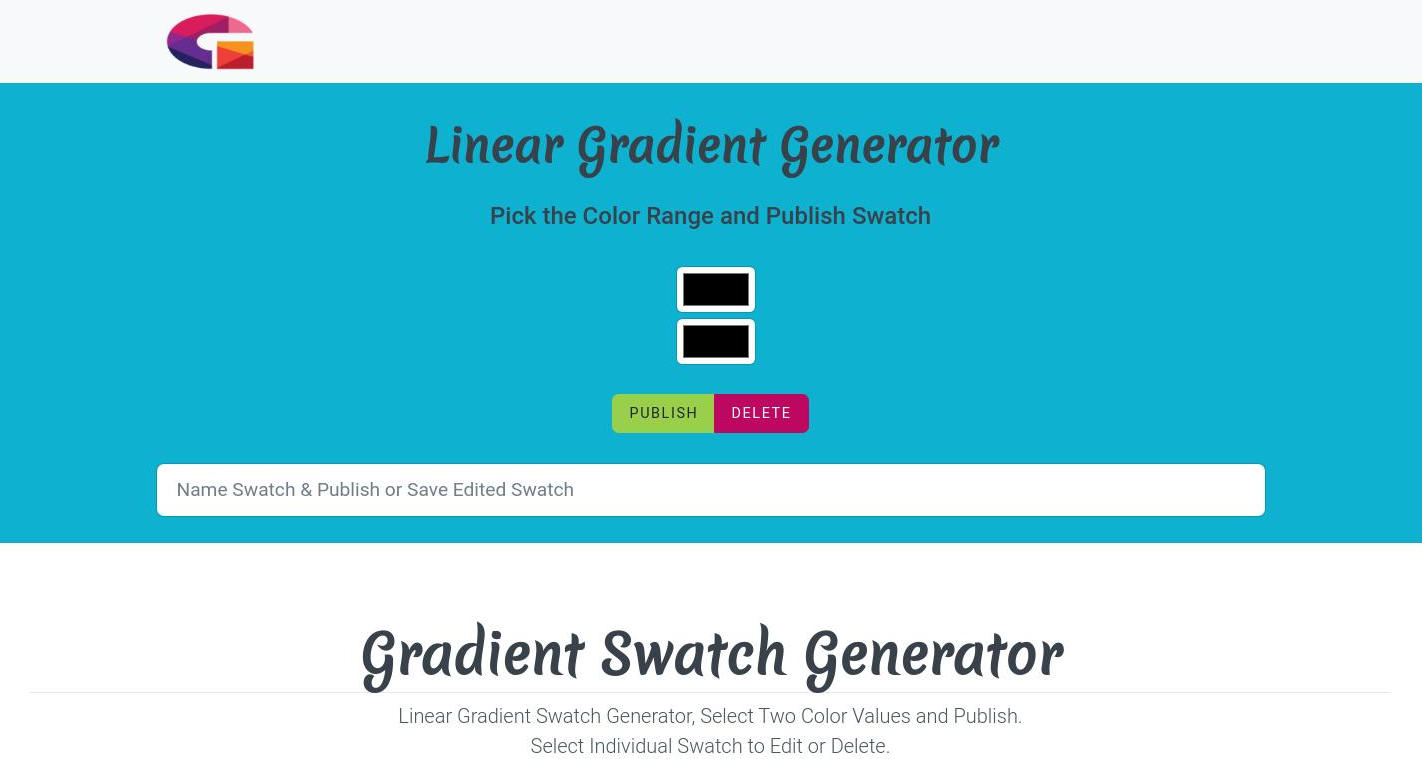
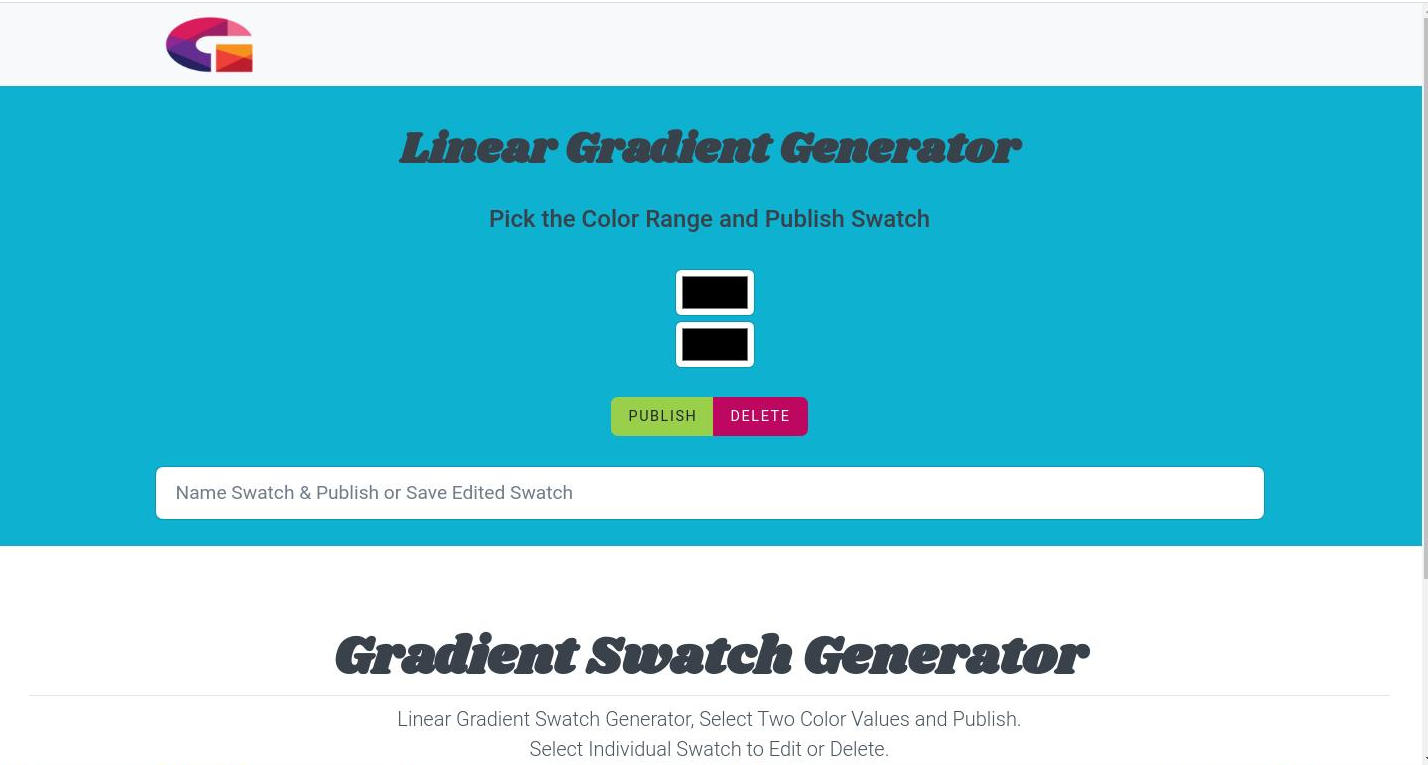
Update

diff --git a/src/App.vue b/src/App.vue
@@ -234,10 +234,10 @@ Vue.swal('Swatch Edited, Make Another!');
 }
 </script>
 <style>
-@import url('https://fonts.googleapis.com/css?family=Merienda&display=swap');
+@import url('https://fonts.googleapis.com/css?family=Shrikhand&display=swap');
 @font-face {
-  font-family: 'Merienda';
-  src: url('https://fonts.googleapis.com/css?family=Merienda&display=swap');
+  font-family: '';
+  src: url('https://fonts.googleapis.com/css?family=Shrikhand&display=swap');
   font-weight: normal;
   font-style: normal;
 }
@@ -279,12 +279,12 @@ footer {
     font-size: 24px;
     }
     h2.page-title {
-      font-family: 'Merienda', cursive;
+      font-family: 'Shrikhand', cursive;
       font-size: 44px;
     }
     h1.display-3 {
       margin-top:20px;
-      font-family: 'Merienda', cursive;
+      font-family: 'Shrikhand', cursive;
       font-size:52px;
     }
     .bg-gradient {
